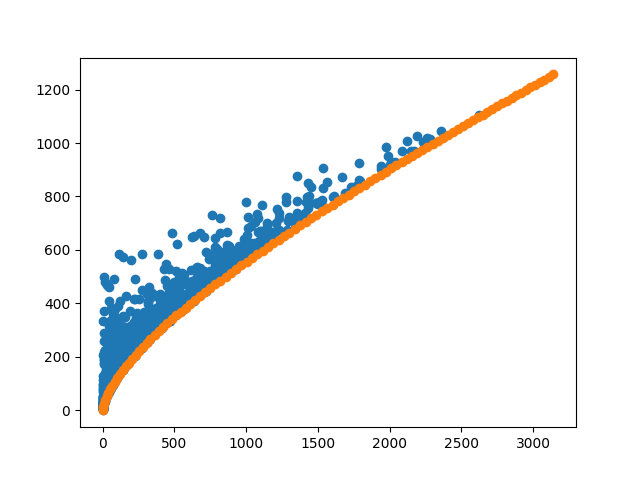
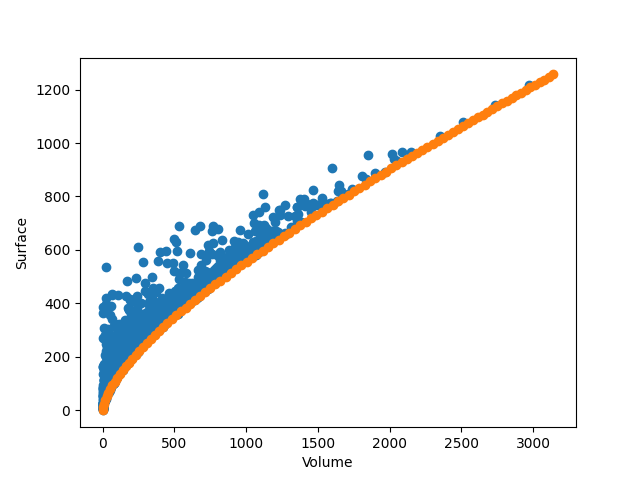
Add labels to task 3

diff --git a/task3/task3.py b/task3/task3.py
@@ -101,13 +101,18 @@ for i in range(1000):
 
 plt.scatter(-F1randomsample,F2randomsample)
 plt.scatter(-solutions[:,0],solutions[:,1])
+plt.xlabel('Volume')
+plt.ylabel('Surface')
 plt.savefig('task3/pareto_front.png')
 plt.clf()
 # # Scatterplot X1, X2
 fig = plt.figure()
 ax = fig.add_subplot(projection='3d')
 ax.scatter(r1, r2, h)
-ax.scatter(individuals[:,0],individuals[:,1], individuals[:,2])
+ax.scatter(individuals[:,0], individuals[:,1],  individuals[:,2])
+ax.set_xlabel('r1')
+ax.set_ylabel('r2')
+ax.set_zlabel('r3')
 plt.savefig('task3/efficient_set.png')
 
 s1 = solutions[:, 0]
